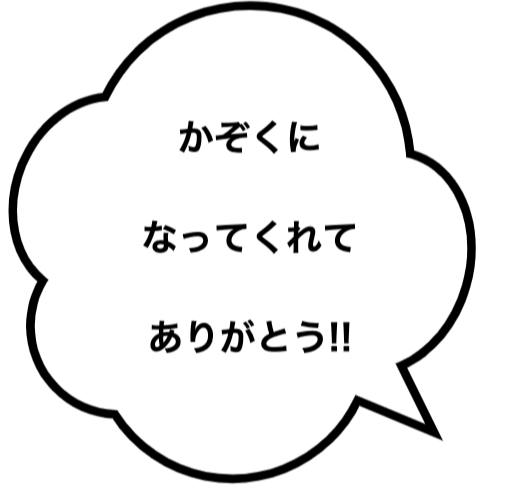
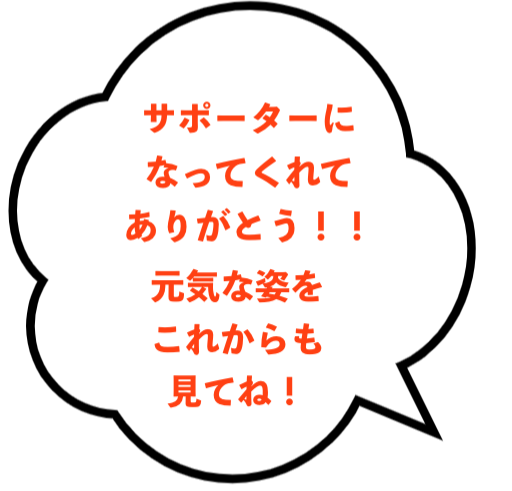
飼育決定→サポーターに変更、アイコン整理

diff --git a/app/assets/stylesheets/cats/show.css b/app/assets/stylesheets/cats/show.css
@@ -86,7 +86,7 @@
   top: 80%;
   width: 100%;
   text-align: center;
-  background-color: crimson;
+  background-color: royalblue;
   transform: skewY(-10deg);
 }
 
@@ -101,6 +101,8 @@
   width: 400px;
   justify-content: space-around;
   margin-top: 30px;
+  display: flex;
+  align-items: center;
 }
 
 .or-text{
@@ -126,7 +128,15 @@
   padding: 5px;
   margin: 5px;
   color: #ffff;
+  font-size: larger;
 }
+
+.fa-thumbs-suport>span{
+  text-decoration: none;
+  color: black;
+  font-size: larger;
+}
+
 
 .name{
   font-size: x-large;

diff --git a/app/assets/stylesheets/cats/index.css b/app/assets/stylesheets/cats/index.css
@@ -80,7 +80,7 @@
   top: 60%;
   width: 100%;
   text-align: center;
-  background-color: crimson;
+  background-color: royalblue;
   transform: skewY(-10deg);
 }
 
@@ -89,6 +89,15 @@
   font-size: 20px;
   font: bold;
 }
+ 
+.favorite-mark {
+  position: absolute;
+  bottom: 15%;
+  left: 78%;
+  width: 20%;
+  text-align: center;
+}
+
 
 .cat-name-center{
   display: flex;

diff --git a/app/assets/stylesheets/favorites/favorite.css b/app/assets/stylesheets/favorites/favorite.css
@@ -16,6 +16,9 @@
 .fa-thumbs-down{
   text-decoration: none;
   color: black;
+  font-size: larger;
+  display: flex;
+  align-items: center;
 }
 
 .favorite-btn-delete>div>span{
@@ -29,6 +32,12 @@
 .fa-thumbs-up{
   text-decoration: none;
   color: black;
+  font-size: larger;
+  display: flex;
+  align-items: center;
 }
 
-
+.icon-heart{
+  height: 50px;
+  width: 50px;
+}

diff --git a/app/assets/stylesheets/personal/show.css b/app/assets/stylesheets/personal/show.css
@@ -12,7 +12,7 @@
   width: 80%;
   min-width: 250px;
   height: 80vh;
-  min-height: 750px;
+  min-height: 1100px;
   background-color: #ffff;
   display: flex;
   flex-direction: column;

diff --git a/app/assets/stylesheets/traders/show.css b/app/assets/stylesheets/traders/show.css
@@ -56,7 +56,7 @@
   top: 60%;
   width: 100%;
   text-align: center;
-  background-color: crimson;
+  background-color: royalblue;
   transform: skewY(-10deg);
 }
 

diff --git a/app/assets/stylesheets/families/index.css b/app/assets/stylesheets/families/index.css
@@ -225,3 +225,8 @@
   display: flex;
   justify-content: center;
 }
+
+@media screen and (max-width:1162px) {
+  .family-image {
+      display: none;
+  }

diff --git a/spec/models/donations_spec.rb b/spec/models/donations_spec.rb
@@ -22,8 +22,8 @@ RSpec.describe Donations, type: :model do
         expect(@donations).to be_valid
       end
 
-      it 'donationの範囲が、半角数字の入力で、¥1000〜¥9,999,999だと保存できること' do
-        @donations.donation = 1000
+      it 'donationの範囲が、半角数字の入力で、¥100〜¥9,999,999だと保存できること' do
+        @donations.donation = 100
         expect(@donations).to be_valid
       end
     end
@@ -35,10 +35,10 @@ RSpec.describe Donations, type: :model do
         expect(@donations.errors.full_messages).to include("Donation can't be blank")
       end
 
-      it 'donationが、¥50000より高いと保存できないこと' do
+      it 'donationが、¥10,000,000より高いと保存できないこと' do
         @donations.donation = '10000000'
         @donations.valid?
-        expect(@donations.errors.full_messages).to include('Donation must be less than or equal to 50000')
+        expect(@donations.errors.full_messages).to include('Donation must be less than or equal to 9999999')
       end
 
       it 'donationは半角数字以外の入力では保存できないこと' do

diff --git a/app/controllers/families_controller.rb b/app/controllers/families_controller.rb
@@ -2,7 +2,7 @@ class FamiliesController < ApplicationController
   require 'payjp'
   before_action :authenticate_personal!
   before_action :cat_id_search
-  before_action :family_cat
+
 
   def index
     @donation = Donations.new
@@ -25,16 +25,16 @@ class FamiliesController < ApplicationController
 
   private
 
-  def family_cat
-    if @cat.family.present? && current_trader.id == @cat.trader_id
-      redirect_to root_path
-    end
-    if trader_signed_in?
-      if @cat.family.present? || current_trader.id != @cat.trader_id
-        redirect_to root_path
-      end
-    end
-  end
+  # def family_cat
+  #   if @cat.family.present? && current_trader.id == @cat.trader_id
+  #     redirect_to root_path
+  #   end
+  #   if trader_signed_in?
+  #     if @cat.family.present? || current_trader.id != @cat.trader_id
+  #       redirect_to root_path
+  #     end
+  #   end
+  # end
 
   def cat_id_search
     @cat = Cat.find(params[:cat_id])

diff --git a/app/forms/donations.rb b/app/forms/donations.rb
@@ -5,7 +5,7 @@ class Donations
 
   with_options presence: true do
     validates :token
-    validates :donation, numericality: { greater_than_or_equal_to: 1000, less_than_or_equal_to: 50000 }
+    validates :donation, numericality: { greater_than_or_equal_to: 100, less_than_or_equal_to: 9999999 }
     validates :first_name, format: { with: /\A[ぁ-んァ-ン一-龥]/, message: 'は全角で入力してください。' }
     validates :last_name, format: { with: /\A[ぁ-んァ-ン一-龥]/, message: 'は全角で入力してください。' }
     validates :first_pkey, format: { with: /\A[\p{katakana} ー－&&[^ -~｡-ﾟ]]+\z/, message: 'は全角カタカナで入力して下さい。' }

diff --git a/spec/models/cat_spec.rb b/spec/models/cat_spec.rb
@@ -119,10 +119,10 @@ RSpec.describe Cat, type: :model do
         expect(@cat.errors.full_messages).to include('Price must be greater than or equal to 1000')
       end
 
-      it 'priceが、¥50000より高いと保存できないこと' do
-        @cat.price = '50001'
+      it 'priceが、¥9,999,999より高いと保存できないこと' do
+        @cat.price = '10000000'
         @cat.valid?
-        expect(@cat.errors.full_messages).to include('Price must be less than or equal to 50000')
+        expect(@cat.errors.full_messages).to include('Price must be less than or equal to 9999999')
       end
 
       it 'priceは半角数字のみの入力で保存できること' do

diff --git a/app/controllers/personals_controller.rb b/app/controllers/personals_controller.rb
@@ -1,14 +1,10 @@
 class PersonalsController < ApplicationController
-  before_action :redirect_root
+
   def show
+    cats = Family.where(personal_id: current_personal.id).pluck(:cat_id)
+    @cats = Cat.find(cats)
     cat = Favorite.where(personal_id: current_personal.id).pluck(:cat_id)
     @favorites = Cat.find(cat)
   end
 
-  private
-  def redirect_root
-    unless trader_signed_in? || personal_signed_in?
-      redirect_to root_path
-    end
-  end
 end

diff --git a/spec/factories/cats.rb b/spec/factories/cats.rb
@@ -2,7 +2,7 @@ FactoryBot.define do
   factory :cat do
     c_name { Faker::Lorem.characters(number: 40) }
     c_text { Faker::Lorem.characters(number: 1000) }
-    price { Faker::Number.between(from: 1000, to: 50000) }
+    price { Faker::Number.between(from: 1000, to: 9999999) }
     breed_id { Faker::Number.between(from: 1, to: 21) }
     ope_id { Faker::Number.between(from: 1, to: 2) }
     sex_id {Faker::Number.between(from: 1, to: 2)}
